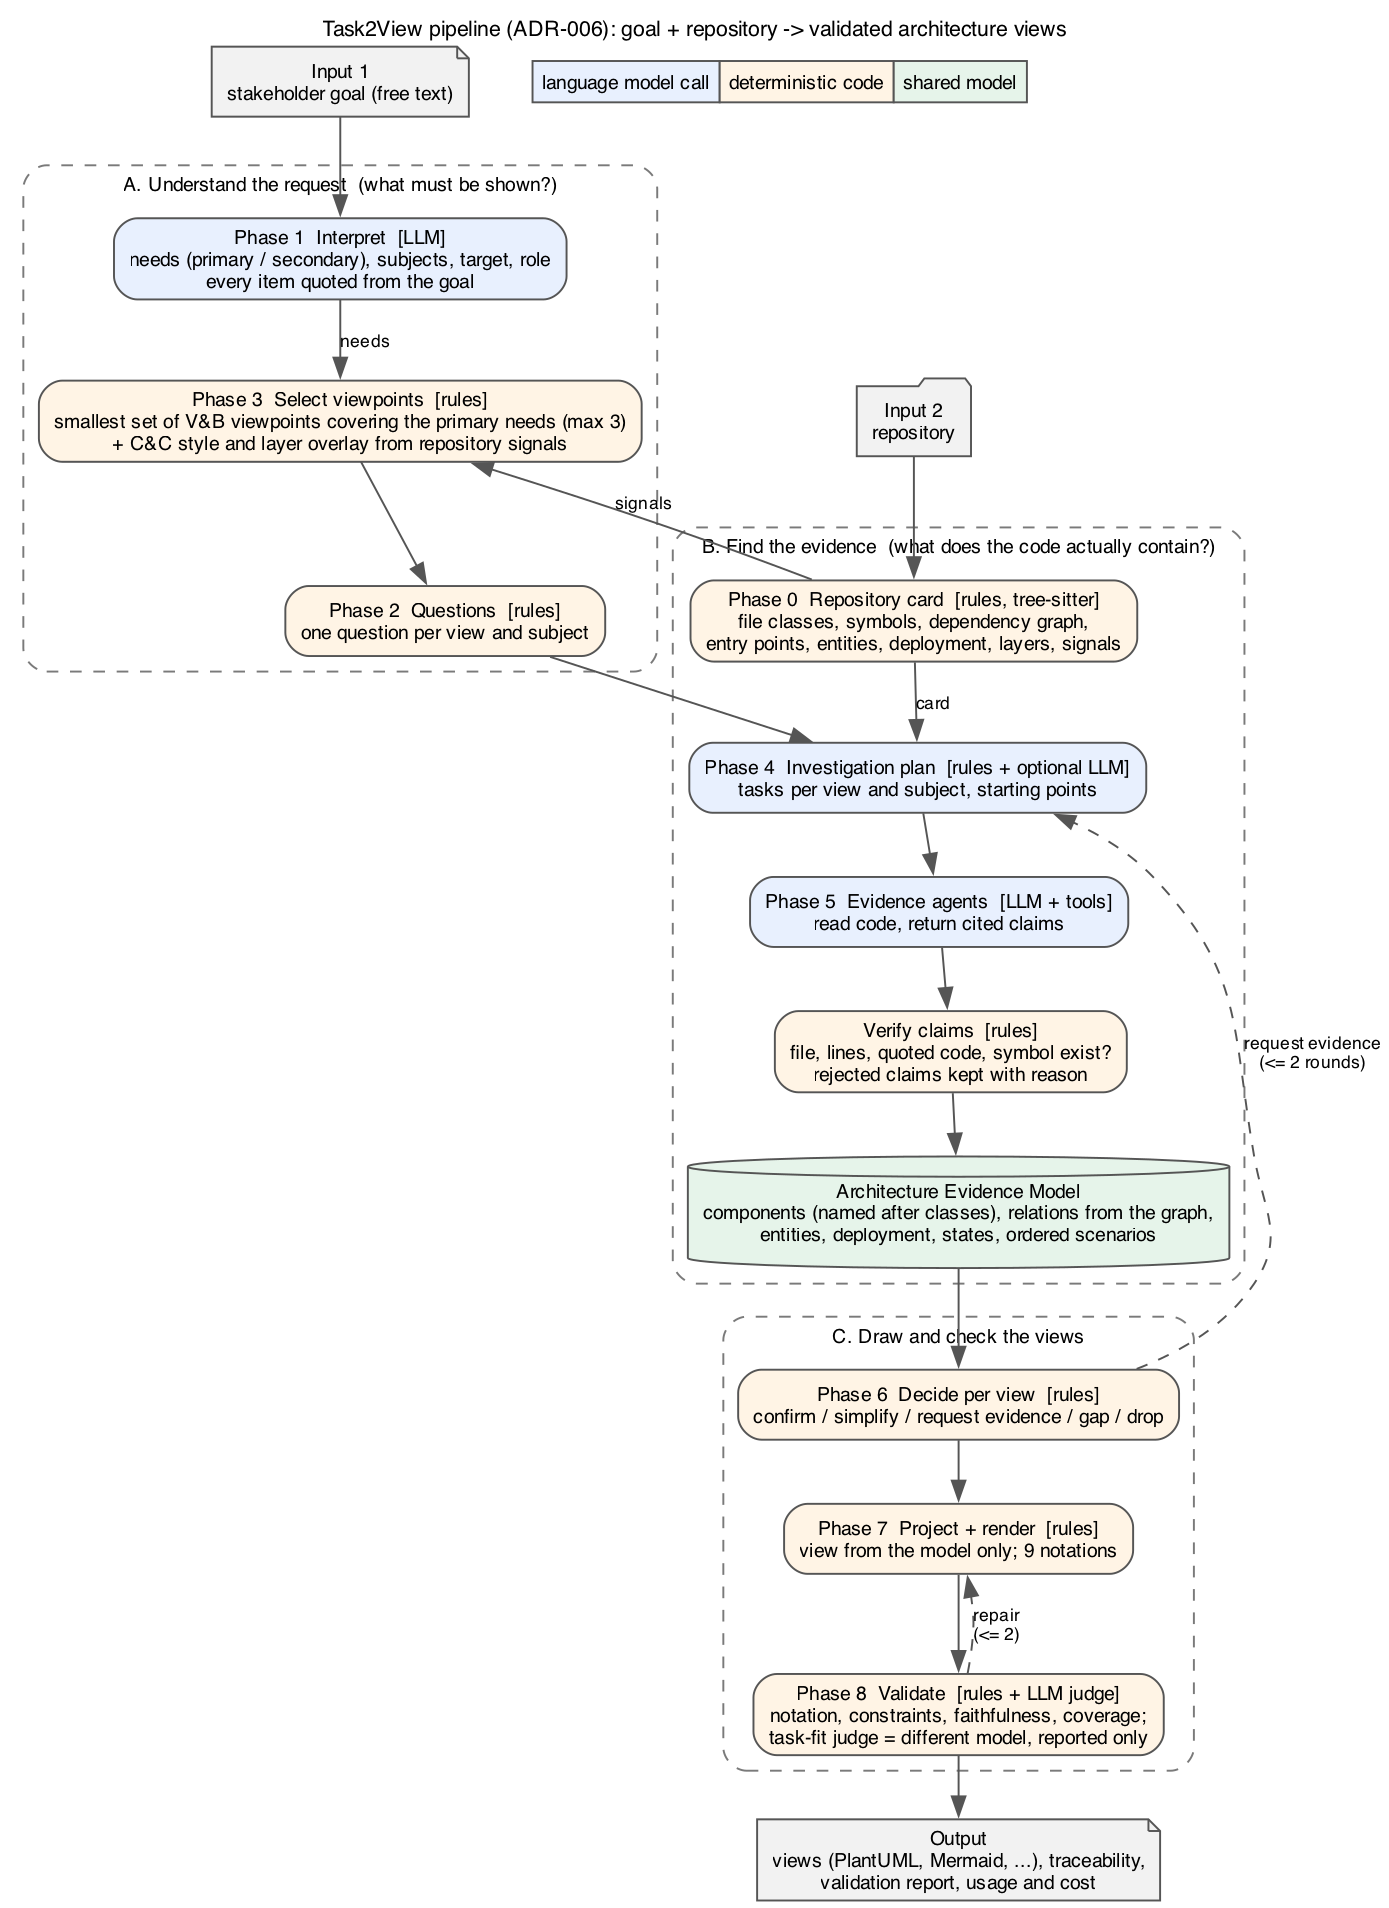
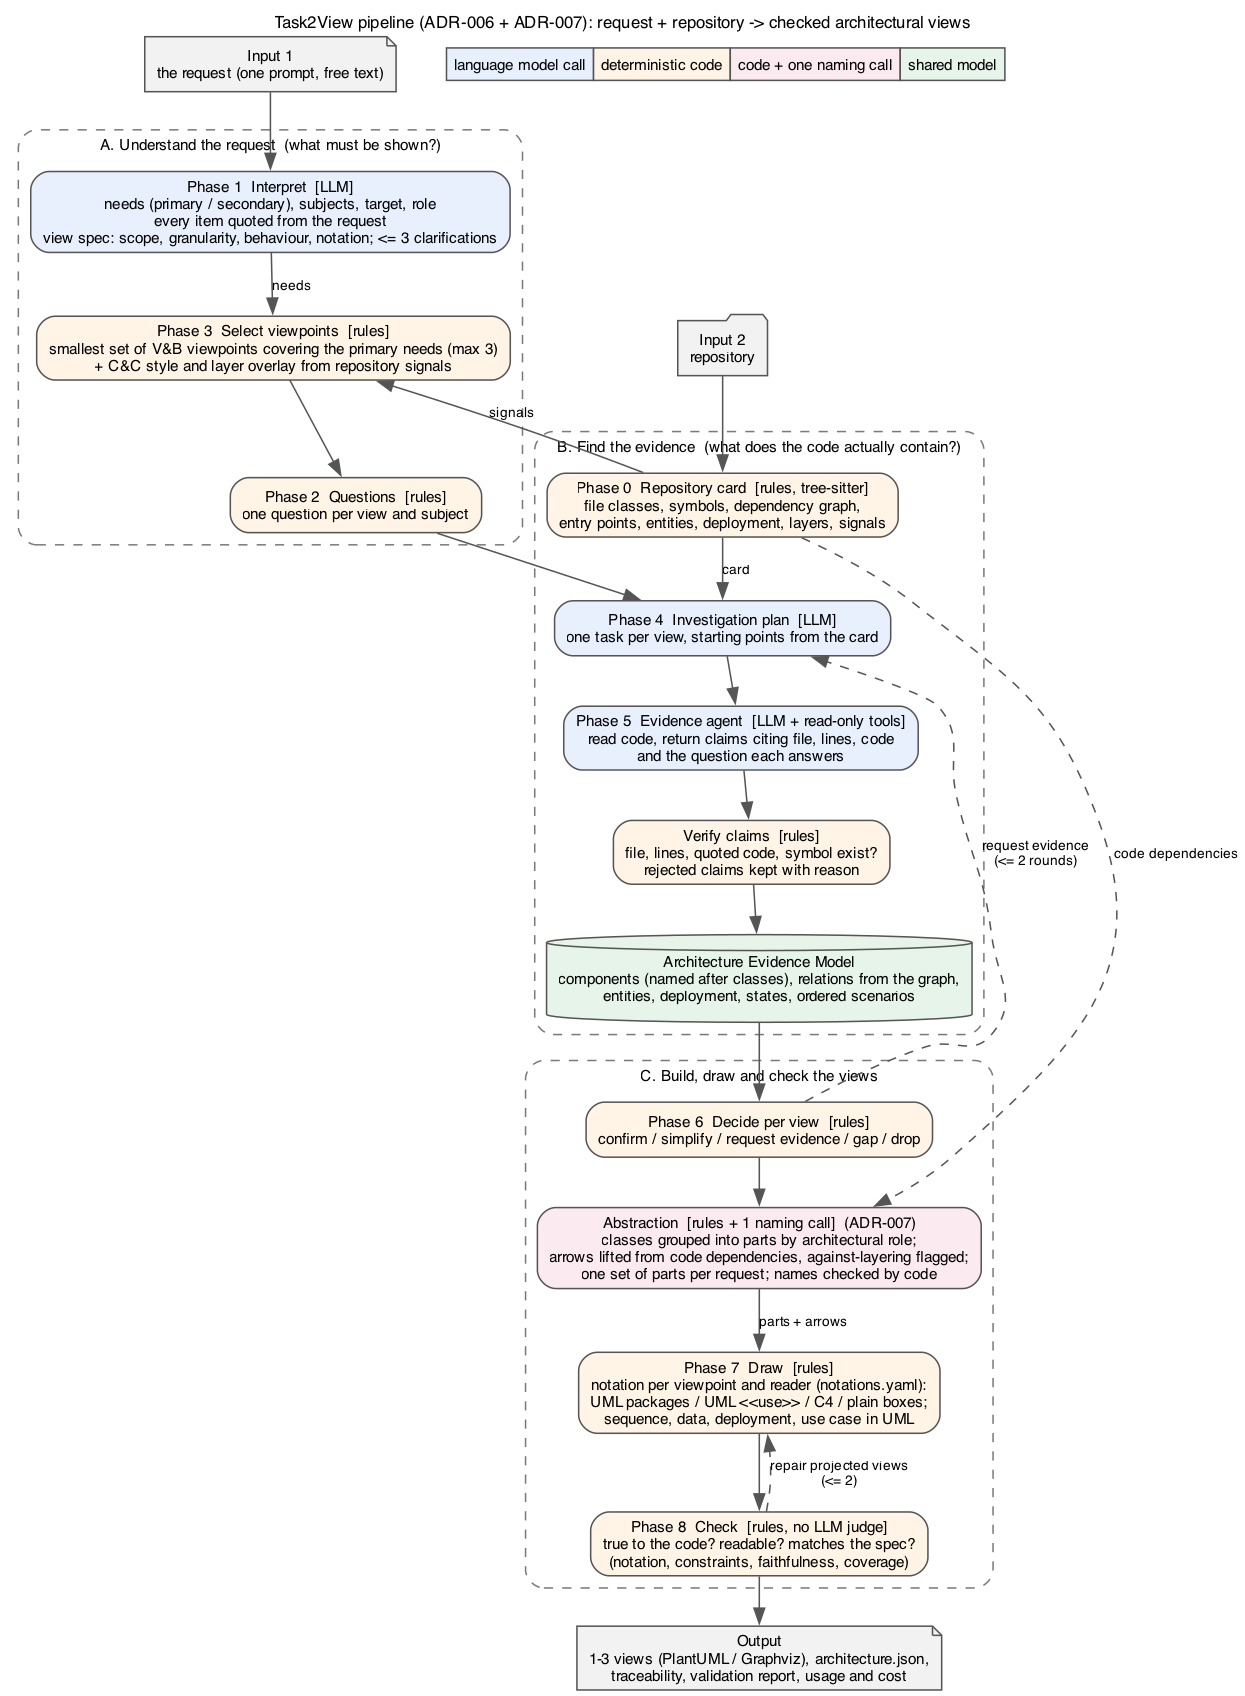
Docs: pipeline diagram updated to ADR-007 (view spec, abstraction, notation per view, rule-based checks)

Changed region(s): [[0.0, 0.0, 0.9157, 1.0], [0.8851, 0.5, 1.0, 0.5625]]

diff --git a/docs/architecture.md b/docs/architecture.md
@@ -2,9 +2,9 @@
 
 ## Current pipeline (ADR-006, `task2view run`, default engine `v2`)
 
-![Task2View pipeline (ADR-006)](diagrams/pipeline-v2.svg)
+![Task2View pipeline (ADR-006, revised by ADR-007)](diagrams/pipeline-v2.svg)
 
-Source: [`diagrams/pipeline-v2.dot`](diagrams/pipeline-v2.dot). Blue = language-model call, beige = deterministic code, green = the shared Architecture Evidence Model.
+Source: [`diagrams/pipeline-v2.dot`](diagrams/pipeline-v2.dot). Blue = language-model call, beige = deterministic code, pink = code plus one naming call (ADR-007 abstraction), green = the shared Architecture Evidence Model. Interactive version with details per step: https://sa4s-serc.github.io/task2View/comparison/#pipeline
 
 Orchestrator: `code/src/task2view/agents/run_v2.py`. Design: [`redesign/01`](redesign/01-knowledge-model.md), [`02`](redesign/02-evidence-and-architecture-model.md), [`03`](redesign/03-views-reconciliation-validation.md); decision: [ADR-006](adr/ADR-006-evidence-model-redesign.md).
 
